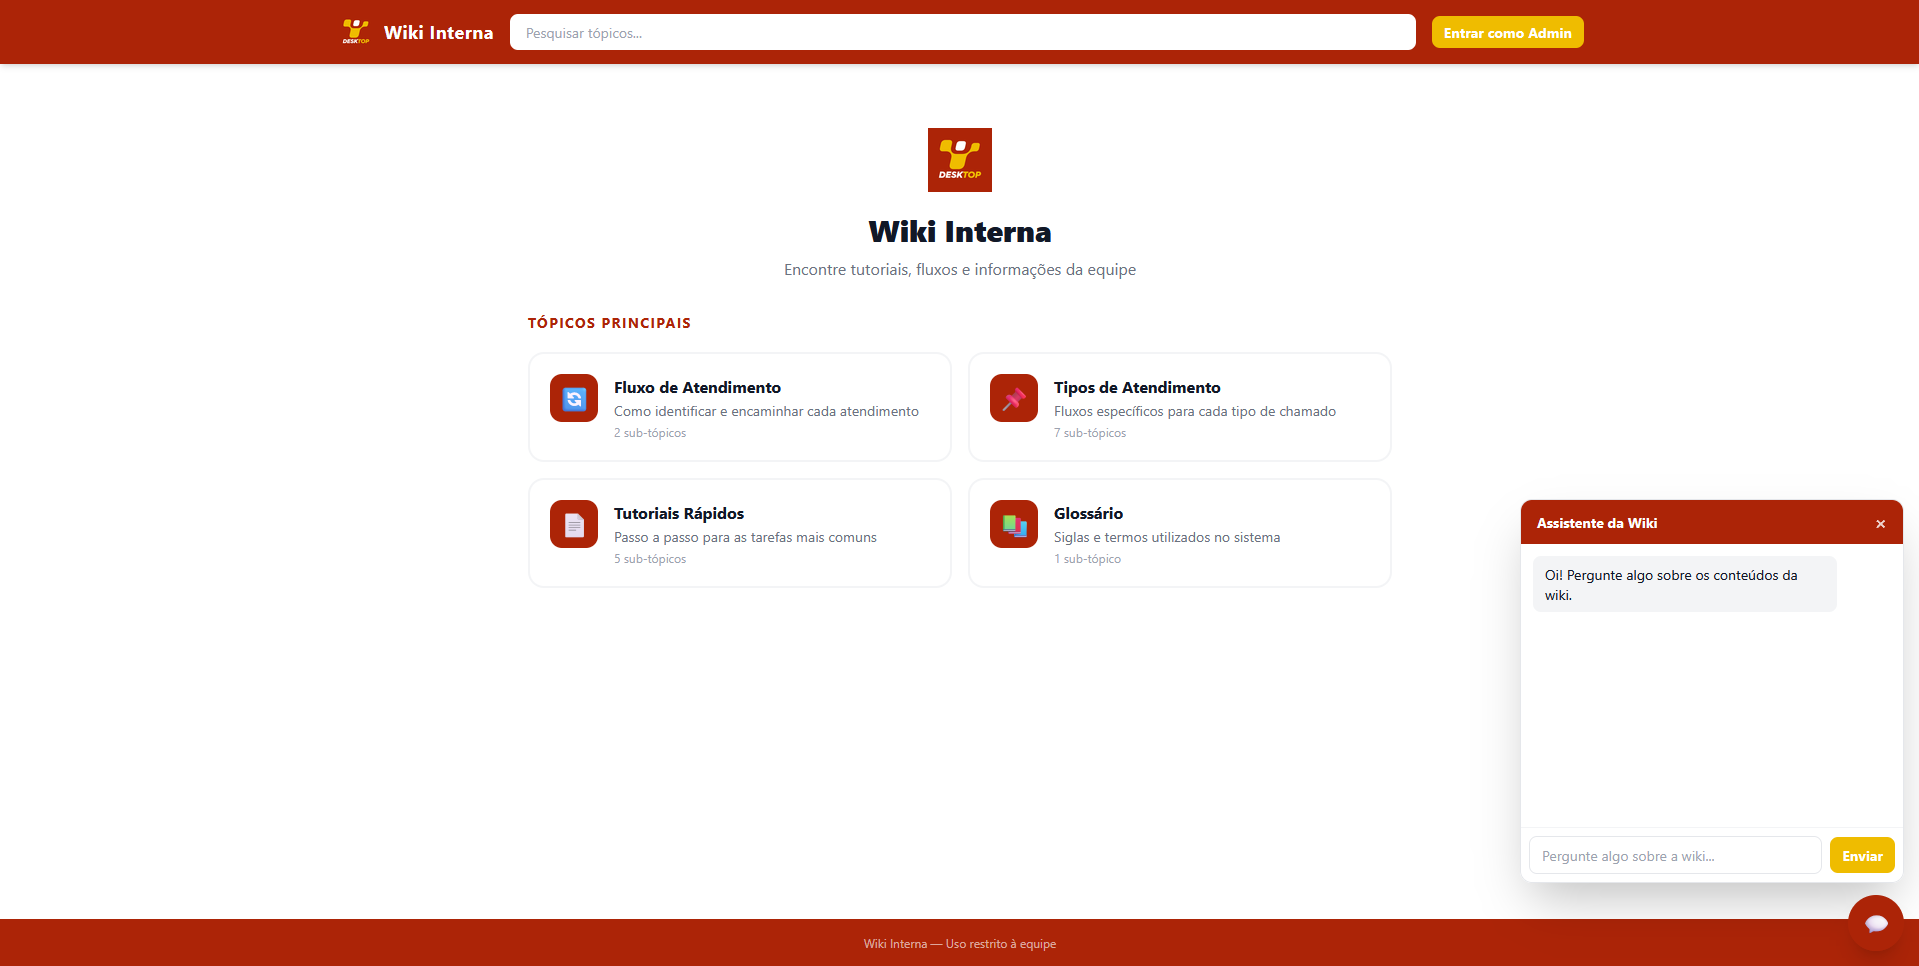
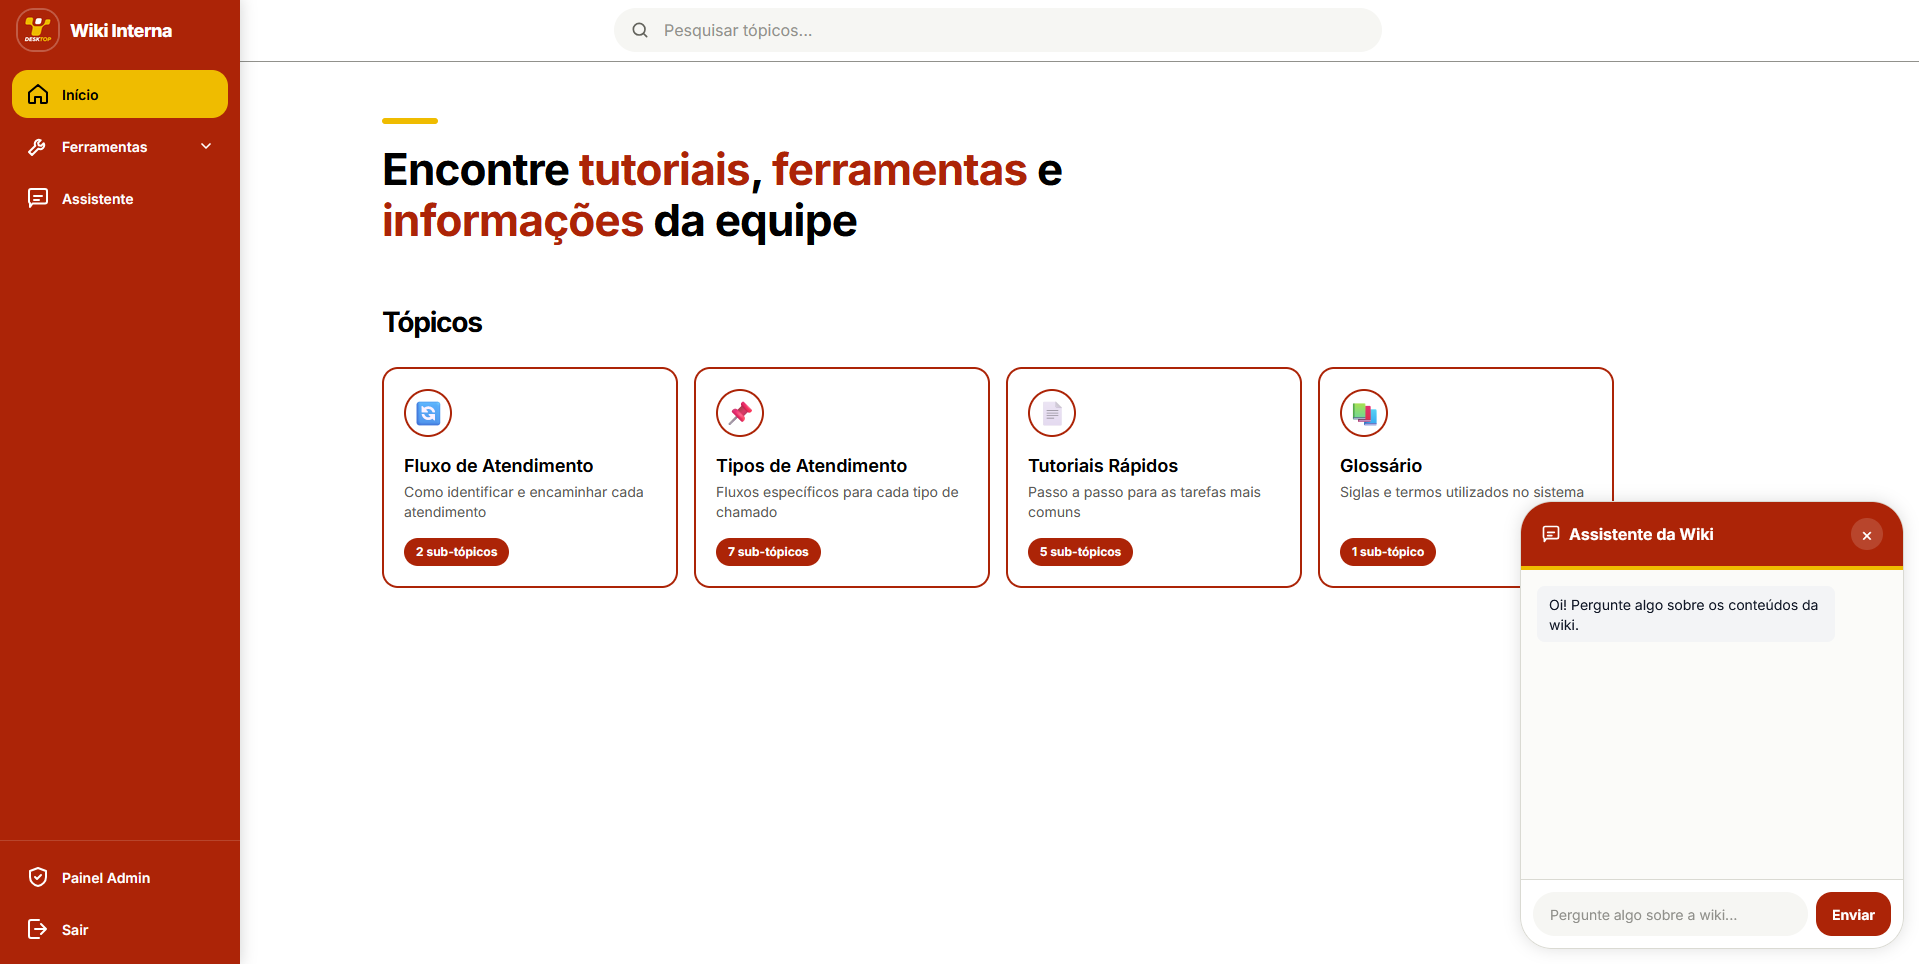
wiki: new home screenshot, updated description, tags and source link

diff --git a/assets/js/translations.js b/assets/js/translations.js
@@ -104,8 +104,8 @@ const translations = {
     wiki_badge: "Company Project",
     wiki_title: "Desktop Wiki",
     wiki_subtitle: "Internal Knowledge Base Platform",
-    wiki_desc: "Internal wiki platform built for Desktop, featuring an AI-powered RAG chatbot. Includes hierarchical topic organization, rich content blocks (text, images, video, checklists), a global glossary with inline tooltips, and a regional/territorial structure for geographic data. Built with Django and deployed on Render with Cloudflare R2 for media storage.",
-    wiki_tag_tech: "Django|Python|PostgreSQL|Bootstrap|Cloudflare Workers AI|Cloudflare R2",
+    wiki_desc: "Internal knowledge base for a customer-support team, redesigned end to end. Three-level topic navigation, rich content blocks (text, images, video, checklists), glossary tooltips and instant search. An AI assistant answers questions with RAG over the wiki's own content — embeddings plus keyword boosting, with screenshots auto-described by a vision model — and points to its sources. Also hosts browser-only tools, like a ticket-script generator whose customer data never leaves the browser. Django on Render, with PostgreSQL and Cloudflare R2.",
+    wiki_tag_tech: "Django|Python|PostgreSQL|Tailwind CSS|RAG|Cloudflare Workers AI|Cloudflare R2",
     wiki_live: "Live Demo",
     wiki_code: "View Source",
     wiki_preview_placeholder: "Screenshot coming soon",
@@ -244,8 +244,8 @@ const translations = {
     wiki_badge: "Projeto Corporativo",
     wiki_title: "Desktop Wiki",
     wiki_subtitle: "Plataforma Interna de Base de Conhecimento",
-    wiki_desc: "Plataforma de wiki interna desenvolvida para a Desktop, com um chatbot de IA baseado em RAG. Conta com organização hierárquica de tópicos, blocos de conteúdo ricos (texto, imagens, vídeo, checklists), glossário global com tooltips inline e estrutura regional/territorial para dados geográficos. Desenvolvida com Django e implantada no Render com Cloudflare R2 para armazenamento de mídia.",
-    wiki_tag_tech: "Django|Python|PostgreSQL|Bootstrap|Cloudflare R2",
+    wiki_desc: "Base de conhecimento interna de uma equipe de suporte, redesenhada de ponta a ponta. Navegação em três níveis, blocos de conteúdo (texto, imagens, vídeo, checklists), tooltips de glossário e busca instantânea. Um assistente de IA responde perguntas com RAG sobre o próprio conteúdo da wiki — embeddings mais reforço por palavra-chave, com prints descritos automaticamente por um modelo de visão — e indica as fontes. Também reúne ferramentas que rodam só no navegador, como um gerador de script de chamado cujos dados de cliente nunca saem do navegador. Django no Render, com PostgreSQL e Cloudflare R2.",
+    wiki_tag_tech: "Django|Python|PostgreSQL|Tailwind CSS|RAG|Cloudflare Workers AI|Cloudflare R2",
     wiki_live: "Demo ao Vivo",
     wiki_code: "Ver Código",
     wiki_preview_placeholder: "Screenshot em breve",

diff --git a/index.html b/index.html
@@ -201,14 +201,14 @@
             <span class="badge mb-5"><i class="fa-solid fa-building" aria-hidden="true"></i><span data-i18n="wiki_badge">Company Project</span></span>
             <h3 id="wiki-title" class="heading-sm mb-1" data-i18n="wiki_title">Desktop Wiki</h3>
             <p class="subtitle-md text-steel mb-4" data-i18n="wiki_subtitle">Internal Knowledge Base Platform</p>
-            <p class="text-charcoal mb-6" data-i18n="wiki_desc">Internal wiki platform built for Desktop, featuring an AI-powered RAG chatbot.</p>
+            <p class="text-charcoal mb-6" data-i18n="wiki_desc">Internal knowledge base for a customer-support team, with an AI assistant (RAG) over its own content.</p>
             <div class="flex flex-wrap gap-2 mb-8" data-i18n-tags="wiki_tag_tech"></div>
             <div class="flex flex-wrap gap-3">
               <a href="https://wiki-desktop.onrender.com" target="_blank" rel="noopener" class="btn btn-primary">
                 <i class="fa-solid fa-arrow-up-right-from-square" aria-hidden="true"></i>
                 <span data-i18n="wiki_live">Live Demo</span>
               </a>
-              <a href="https://github.com/giovaniolivr" target="_blank" rel="noopener noreferrer" class="btn btn-secondary">
+              <a href="https://github.com/giovaniolivr/wiki-desktop" target="_blank" rel="noopener noreferrer" class="btn btn-secondary">
                 <i class="fa-brands fa-github" aria-hidden="true"></i>
                 <span data-i18n="wiki_code">View Source</span>
               </a>
@@ -216,7 +216,7 @@
           </div>
           <div class="lg:col-span-3">
             <div class="shot">
-              <img src="static/home_wiki.png" alt="Desktop Wiki home page" loading="lazy" />
+              <img src="static/home_wiki.png?v=2" alt="Desktop Wiki home page: topic cards, red sidebar and the AI assistant panel" loading="lazy" />
             </div>
           </div>
         </div>
@@ -488,7 +488,7 @@
   <!-- SCRIPTS (order matters: translations → i18n → AOS → main).
        ?v= on local CSS/JS: GitHub Pages caches them for 10 min, so after a deploy returning visitors
        got the new HTML with the old CSS/JS (broken page). Bump it whenever these files change. -->
-  <script src="assets/js/translations.js?v=20260926"></script>
+  <script src="assets/js/translations.js?v=20260927"></script>
   <script src="assets/js/i18n.js?v=20260926"></script>
   <script src="https://unpkg.com/aos@2.3.4/dist/aos.js"></script>
   <script src="assets/js/main.js?v=20260925"></script>
